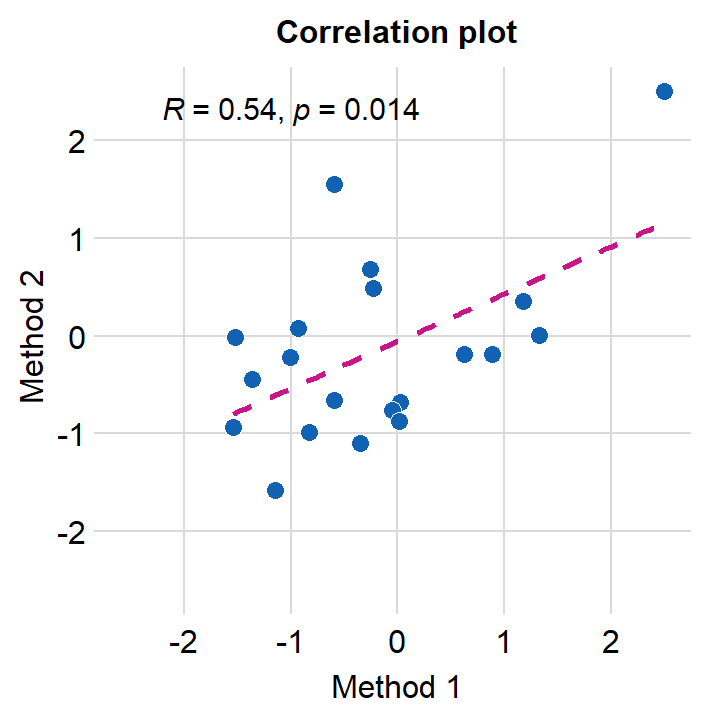
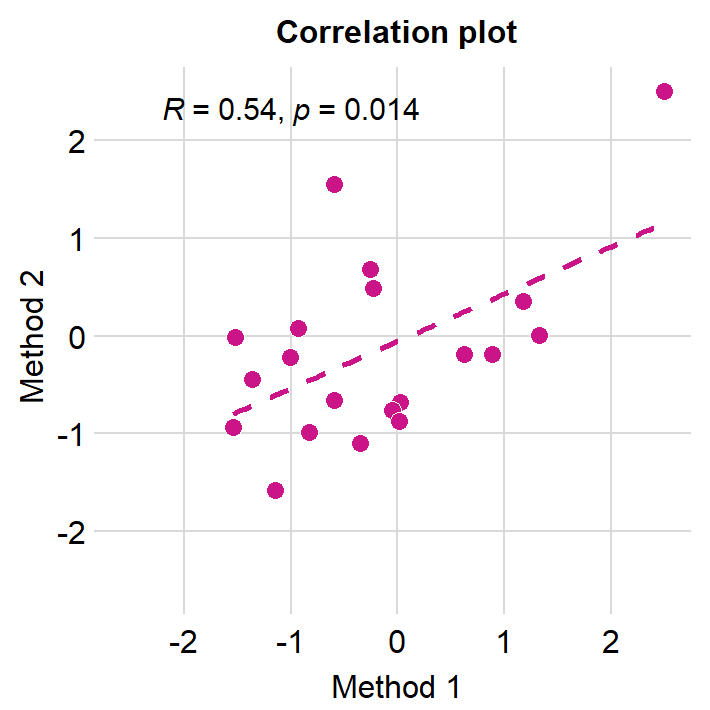
colors

diff --git a/docs/full-guide-on-smplot.html b/docs/full-guide-on-smplot.html
@@ -474,7 +474,7 @@ Figure 4.1: smplot’s color palette
 </ul>
 <div class="sourceCode" id="cb123"><pre class="sourceCode r"><code class="sourceCode r"><span id="cb123-1"><a href="full-guide-on-smplot.html#cb123-1" aria-hidden="true" tabindex="-1"></a><span class="co"># correlation plot using dataframe &#39;df_corr&#39; </span></span>
 <span id="cb123-2"><a href="full-guide-on-smplot.html#cb123-2" aria-hidden="true" tabindex="-1"></a><span class="fu">ggplot</span>(<span class="at">data =</span> df_corr, <span class="at">mapping =</span> <span class="fu">aes</span>(<span class="at">x =</span> first, <span class="at">y =</span> second)) <span class="sc">+</span> </span>
-<span id="cb123-3"><a href="full-guide-on-smplot.html#cb123-3" aria-hidden="true" tabindex="-1"></a>  <span class="fu">geom_point</span>(<span class="at">shape =</span> <span class="dv">21</span>, <span class="at">fill =</span> <span class="fu">sm_color</span>(<span class="st">&#39;blue&#39;</span>), <span class="at">color =</span> <span class="st">&#39;white&#39;</span>,</span>
+<span id="cb123-3"><a href="full-guide-on-smplot.html#cb123-3" aria-hidden="true" tabindex="-1"></a>  <span class="fu">geom_point</span>(<span class="at">shape =</span> <span class="dv">21</span>, <span class="at">fill =</span> <span class="fu">sm_color</span>(<span class="st">&#39;cyan&#39;</span>), <span class="at">color =</span> <span class="st">&#39;white&#39;</span>,</span>
 <span id="cb123-4"><a href="full-guide-on-smplot.html#cb123-4" aria-hidden="true" tabindex="-1"></a>             <span class="at">size =</span> <span class="dv">3</span>) <span class="sc">+</span> <span class="fu">sm_corr_theme</span>(<span class="at">borders =</span> <span class="cn">FALSE</span>) <span class="sc">+</span></span>
 <span id="cb123-5"><a href="full-guide-on-smplot.html#cb123-5" aria-hidden="true" tabindex="-1"></a>  <span class="fu">scale_y_continuous</span>(<span class="at">limits =</span> <span class="fu">c</span>(<span class="sc">-</span><span class="fl">2.5</span>,<span class="fl">2.5</span>)) <span class="sc">+</span></span>
 <span id="cb123-6"><a href="full-guide-on-smplot.html#cb123-6" aria-hidden="true" tabindex="-1"></a>  <span class="fu">scale_x_continuous</span>(<span class="at">limits =</span> <span class="fu">c</span>(<span class="sc">-</span><span class="fl">2.5</span>,<span class="fl">2.5</span>)) <span class="sc">+</span></span>
